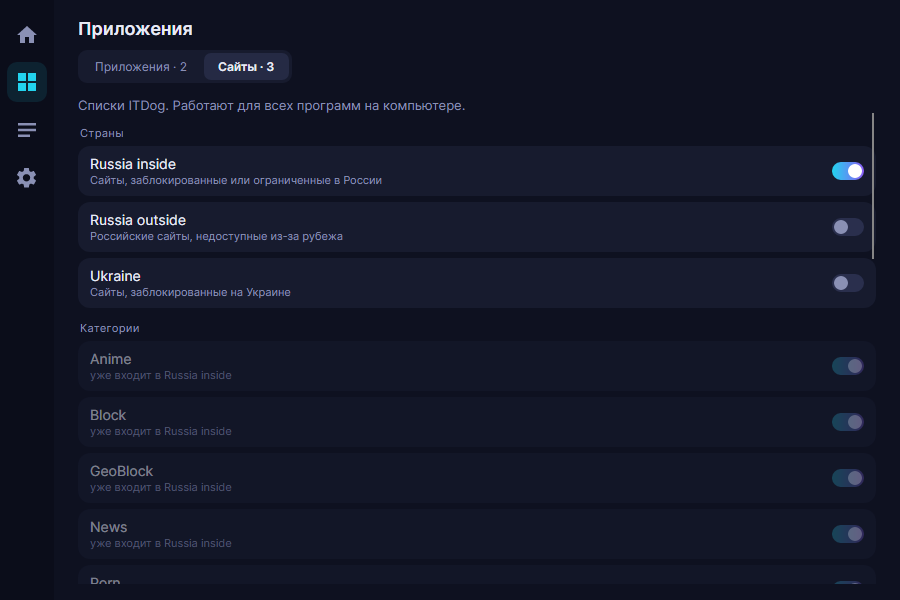
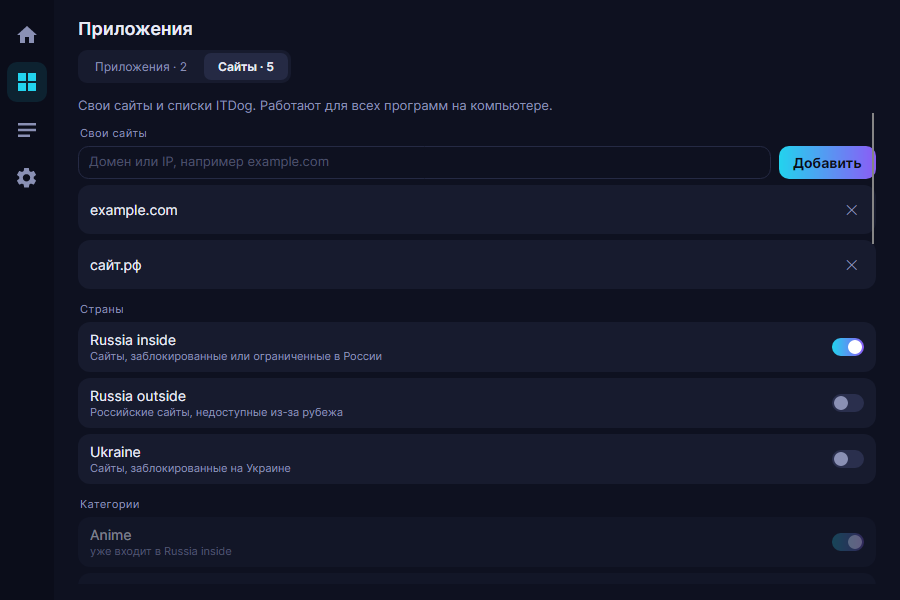
README: own sites and hot rule updates

diff --git a/README.md b/README.md
@@ -110,9 +110,13 @@ uci commit podkop
 На странице «Приложения» две вкладки:
 
 - **Приложения**: программы, трафик которых идёт через VPN, как и в режиме SOCKS5;
-- **Сайты**: готовые списки ITDog. Они работают для всех программ на компьютере, а не только для выбранных: включённый список отправляет в VPN свои домены из любого браузера и любой программы.
+- **Сайты**: ваши сайты и готовые списки ITDog. Они работают для всех программ на компьютере, а не только для выбранных: сайт или включённый список отправляет в VPN трафик из любого браузера и любой программы.
 
 ![Вкладка «Сайты»](docs/vless-sites.png)
+
+**Свои сайты.** В поле вверху вкладки «Сайты» впишите домен (например, `example.com`: он работает вместе со всеми поддоменами), IP-адрес или подсеть (например, `203.0.113.0/24`) и нажмите «Добавить». Ссылку можно вставить целиком: ViviTune оставит из неё только домен. Убрать сайт можно крестиком справа.
+
+**Без переподключения.** Программы, свои сайты и списки ITDog можно менять, не отключаясь: изменения применяются сразу, VPN не перезапускается. Уже открытые соединения идут как раньше, а новые, по новым правилам. Если нужный сайт был открыт давно и всё ещё идёт по-старому, обновите страницу.
 
 Когда включён Russia inside, списки, которые в него входят (Anime, Block, GeoBlock, News, Porn, YouTube и др.), отмечены «уже входит в Russia inside», отдельно включать их не нужно.
 
